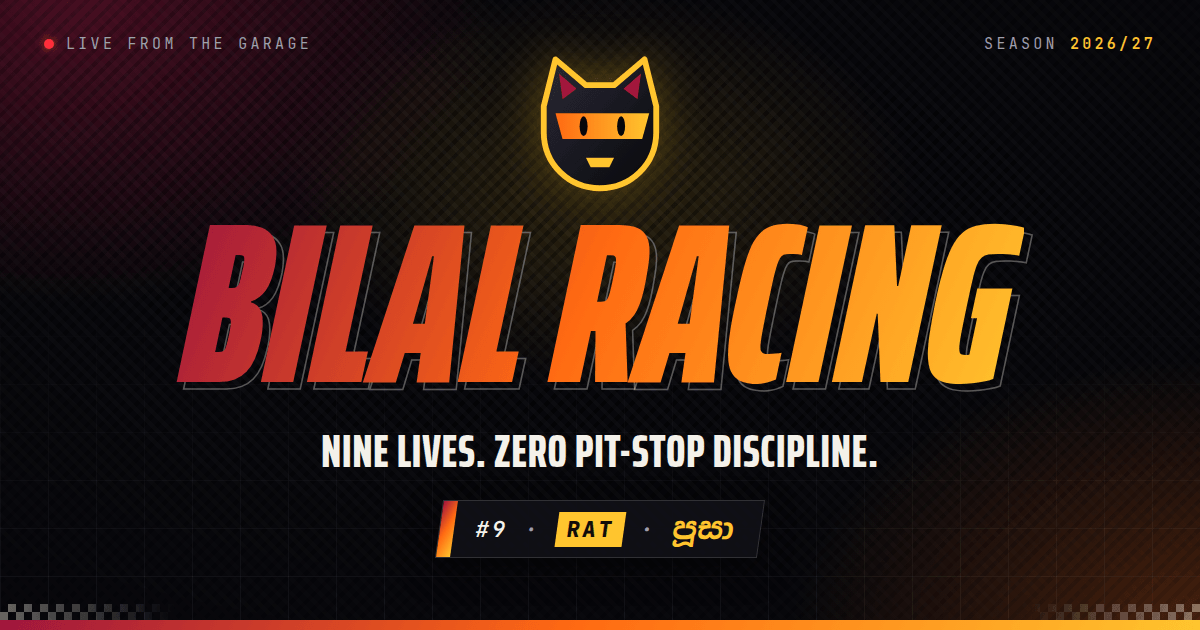
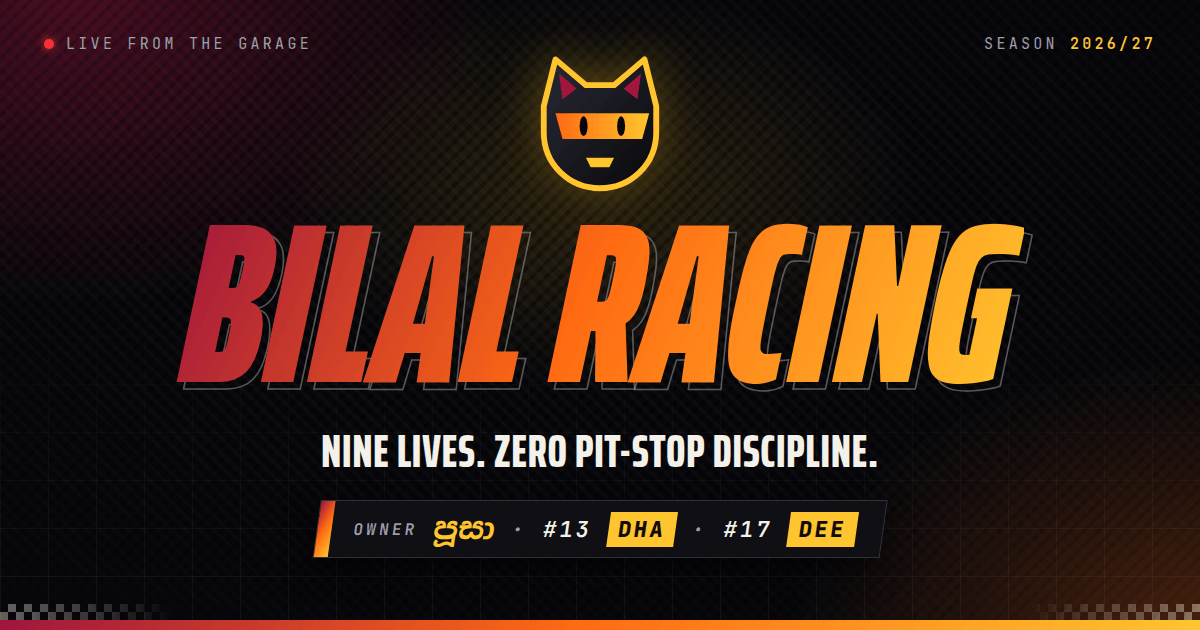
Refresh OG image, meta description and README for the new line-up

Changed region(s): [[0.2467, 0.7841, 0.74, 0.9048]]

diff --git a/README.md b/README.md
@@ -1,6 +1,7 @@
 # Bilal Racing 🐾🏎
 
-The official (entirely fictional) Formula 1 team of **Nirod “පූසා” Rathnaweera**, driver #9.
+The official (entirely fictional) Formula 1 team owned by a cat: Team Principal & Owner
+**Nirod “පූසා” Rathnaweera**, with drivers **#13 Isuru Dharmadasa (DHA)** and **#17 Yasas Deegala (DEE)**.
 *Nine lives. Zero pit-stop discipline.*
 
 A friends-only joke site that doubles as a showcase of modern web tech: Astro 7, a procedural
@@ -18,18 +19,17 @@ npm run preview
 npx astro check    # type-check
 ```
 
-## Add photos
+## Photos
 
-1. Drop images into `src/assets/photos/<folder>/` — `driver/` (solo shots of Nirod),
-   `together/` (the gang), `crew/` (one per crew member).
-2. Point the matching entry at the file:
-   - driver portrait → `driverPortrait.file` in `src/data/photos.ts`
-   - gallery tiles → `gallery[].file` (+ tweak the caption) in `src/data/photos.ts`
-   - crew avatars → `person.photo` in `src/data/crew.ts`
-3. Missing files render a styled placeholder, so nothing breaks while you collect them.
+Photos live in `src/assets/photos/<folder>/` and are listed in `src/data/photos.ts`:
+- `team/` — the owner's portrait (`ownerPortrait`)
+- `driver/` — one portrait per driver (`driverPortraits`)
+- `crew/` — 480×480 face-cropped avatars (referenced from `src/data/crew.ts`)
+- `together/` — the paddock gallery (`gallery`, with captions)
 
-Photos are re-encoded by `astro:assets` (AVIF/WebP, resized), which strips EXIF metadata —
-including GPS location — from everything that ships.
+Before committing a new photo, auto-orient it and strip its metadata (phones embed GPS in
+EXIF). `astro:assets` re-encodes everything it ships (AVIF/WebP, resized), so the published
+site never carries EXIF either. Entries whose file is missing render a styled placeholder.
 
 ## Edit the crew
 
